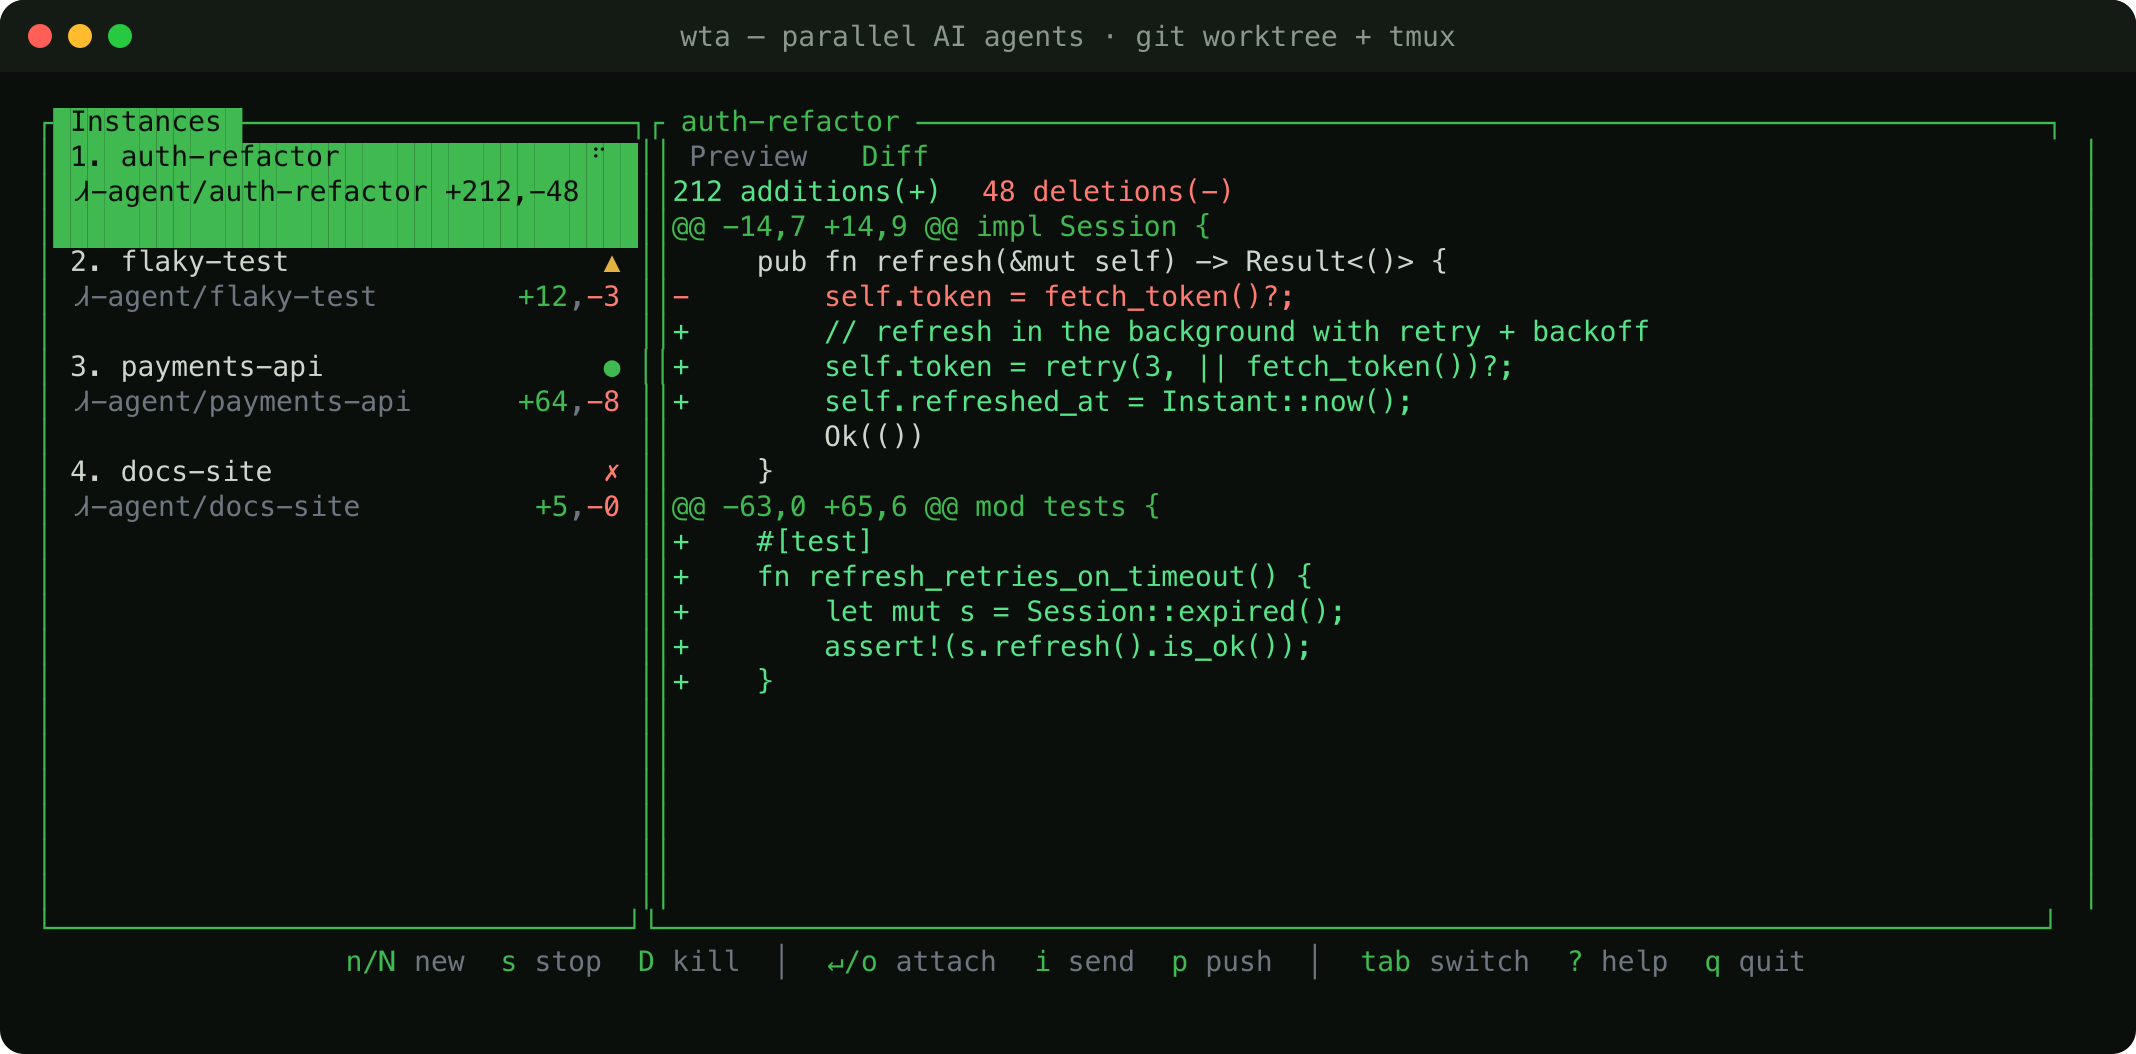
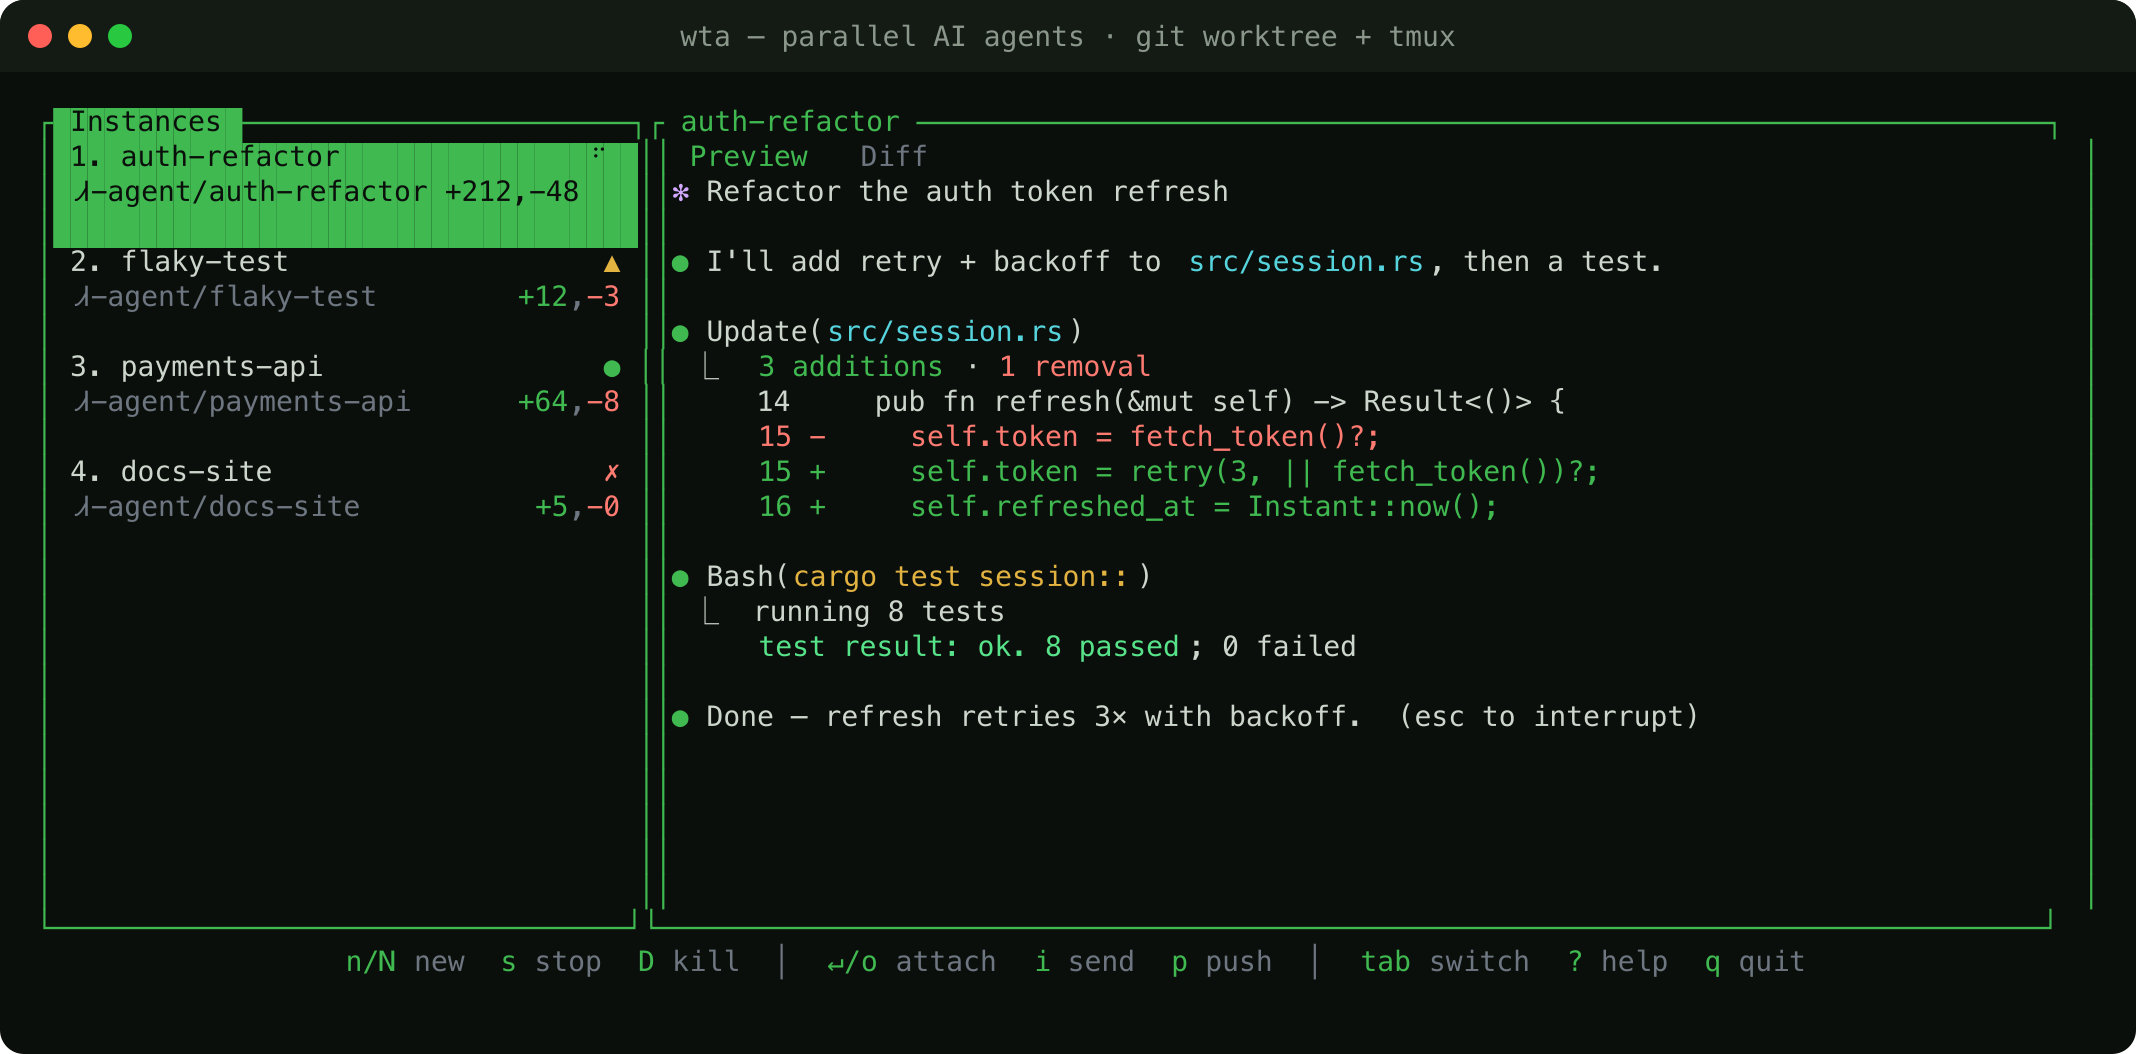
docs: refresh dashboard screenshot to show the colored live Preview (real agent colors)

Changed region(s): [[0.309, 0.1214, 0.7725, 0.6376], [0.309, 0.6679, 0.8034, 0.6983], [0.7416, 0.2429, 0.7725, 0.2732]]

diff --git a/src/dash.rs b/src/dash.rs
@@ -1615,22 +1615,25 @@ mod tests {
             row("docs-site", Status::Exited, false, 5, 0),
         ];
         app.sel = 0;
-        app.tab = Tab::Diff;
-        app.diff_text = [
-            "@@ -14,7 +14,9 @@ impl Session {",
-            "     pub fn refresh(&mut self) -> Result<()> {",
-            "-        self.token = fetch_token()?;",
-            "+        // refresh in the background with retry + backoff",
-            "+        self.token = retry(3, || fetch_token())?;",
-            "+        self.refreshed_at = Instant::now();",
-            "         Ok(())",
-            "     }",
-            "@@ -63,0 +65,6 @@ mod tests {",
-            "+    #[test]",
-            "+    fn refresh_retries_on_timeout() {",
-            "+        let mut s = Session::expired();",
-            "+        assert!(s.refresh().is_ok());",
-            "+    }",
+        // Preview tab, showing the agent's real colors (parsed from tmux `-e`).
+        app.tab = Tab::Preview;
+        app.preview = [
+            "\u{1b}[35m✻\u{1b}[0m \u{1b}[1mRefactor the auth token refresh\u{1b}[0m",
+            "",
+            "\u{1b}[32m●\u{1b}[0m I'll add retry + backoff to \u{1b}[36msrc/session.rs\u{1b}[0m, then a test.",
+            "",
+            "\u{1b}[32m●\u{1b}[0m \u{1b}[1mUpdate\u{1b}[0m(\u{1b}[36msrc/session.rs\u{1b}[0m)",
+            "  \u{1b}[2m⎿\u{1b}[0m  \u{1b}[32m3 additions\u{1b}[0m · \u{1b}[31m1 removal\u{1b}[0m",
+            "     \u{1b}[2m14\u{1b}[0m     pub fn refresh(&mut self) -> Result<()> {",
+            "     \u{1b}[31m15 -     self.token = fetch_token()?;\u{1b}[0m",
+            "     \u{1b}[32m15 +     self.token = retry(3, || fetch_token())?;\u{1b}[0m",
+            "     \u{1b}[32m16 +     self.refreshed_at = Instant::now();\u{1b}[0m",
+            "",
+            "\u{1b}[32m●\u{1b}[0m \u{1b}[1mBash\u{1b}[0m(\u{1b}[33mcargo test session::\u{1b}[0m)",
+            "  \u{1b}[2m⎿\u{1b}[0m  running 8 tests",
+            "     \u{1b}[92mtest result: ok. 8 passed\u{1b}[0m; 0 failed",
+            "",
+            "\u{1b}[32m●\u{1b}[0m Done — refresh retries 3× with backoff.  \u{1b}[2m(esc to interrupt)\u{1b}[0m",
         ]
         .join("\n");
         let mut term = Terminal::new(TestBackend::new(120, 26)).unwrap();

diff --git a/README.md b/README.md
@@ -5,7 +5,7 @@ persistent tmux session** — from one keyboard-first dashboard. Attach to any
 agent, review its diff, and preview branch conflicts before you merge. A single
 ~1 MB Rust binary that runs in **any terminal** and never touches your own tmux.
 
-![wta dashboard — an Instances sidebar of parallel AI agents beside a live colorized diff](assets/wta.png)
+![wta dashboard — an Instances sidebar of parallel AI agents beside a live, full-color agent Preview](assets/wta.png)
 
 ## Install
 